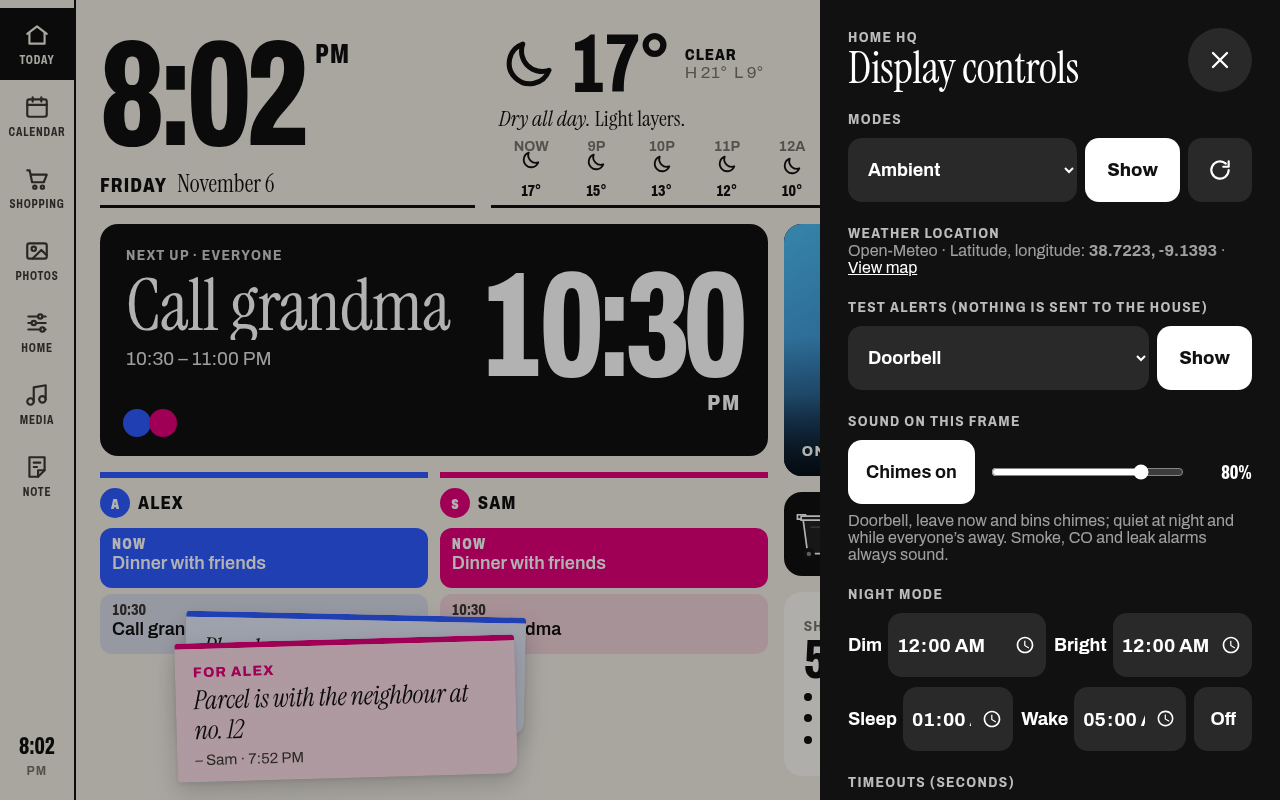
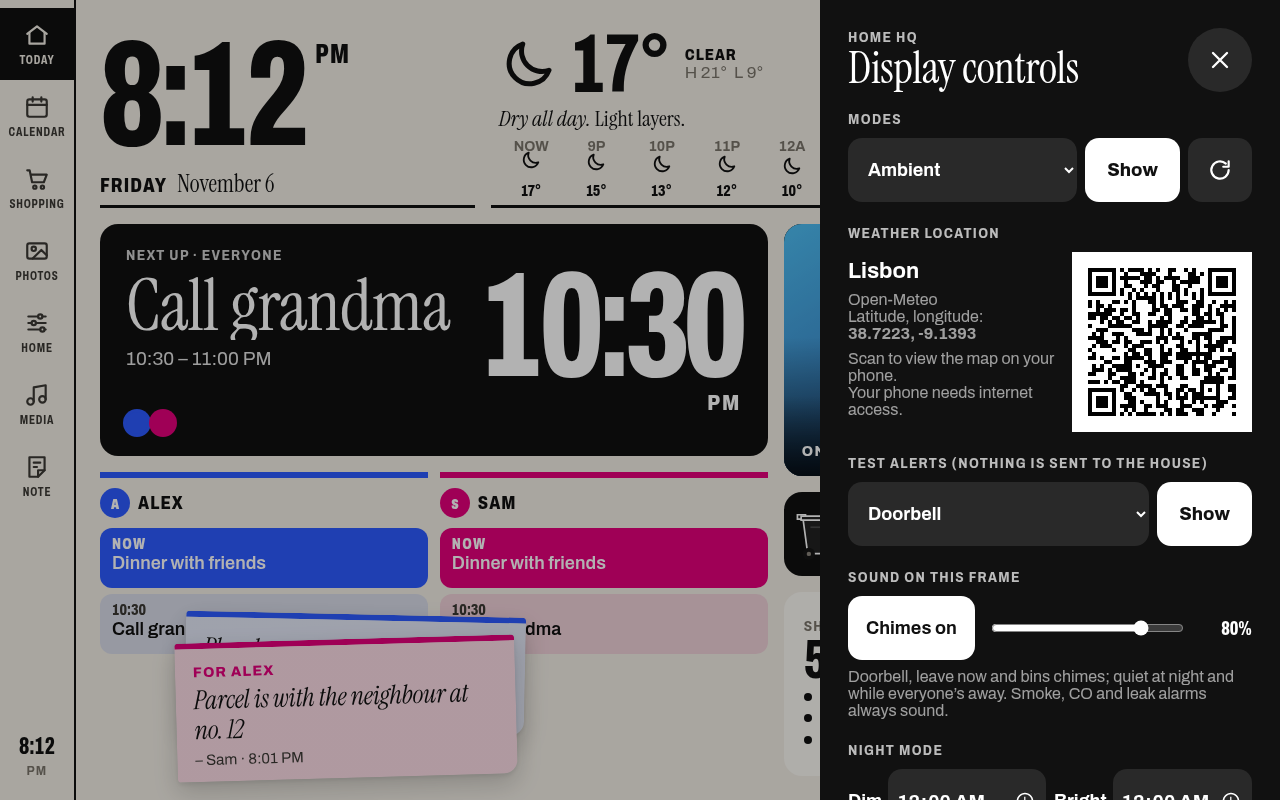
Show offline city label and map QR in display controls

diff --git a/frontend/js/system.js b/frontend/js/system.js
@@ -196,7 +196,7 @@
       '<select id="demoMode" aria-label="Mode to show"><option value="ambient">Ambient</option><option value="off">Screen off</option></select>' +
       '<button data-modego>Show</button>' +
       '<button class="demo-icon" data-reload aria-label="Refresh data">' + App.icon('refresh', 26) + '</button></div></div>' +
-      '<div class="demo-sec"><div class="label label--light">Weather location</div><p class="demo-note">' + weatherLocation() + '</p></div>' +
+      '<div class="demo-sec"><div class="label label--light">Weather location</div><div class="demo-note">' + weatherLocation() + '</div></div>' +
       (tests().length ? '<div class="demo-sec"><div class="label label--light">Test alerts (nothing is sent to the house)</div><div class="demo-test">' +
       '<select id="demoAlert" aria-label="Alert to test">' + tests().map(function (t) { return '<option value="' + t[0] + '">' + t[1] + '</option>'; }).join('') + '</select>' +
       '<button data-test>Show</button></div></div>' : '') +
@@ -231,8 +231,12 @@
     var loc = D.weatherLocation;
     if (!loc || typeof loc.lat !== 'number' || typeof loc.lon !== 'number' || !isFinite(loc.lat) || !isFinite(loc.lon)) return 'No weather location configured.';
     var coords = loc.lat.toFixed(4) + ', ' + loc.lon.toFixed(4);
-    return 'Open-Meteo · Latitude, longitude: <b>' + App.esc(coords) + '</b> · ' +
-      '<a href="https://www.openstreetmap.org/?mlat=' + encodeURIComponent(loc.lat) + '&amp;mlon=' + encodeURIComponent(loc.lon) + '#map=12/' + encodeURIComponent(loc.lat) + '/' + encodeURIComponent(loc.lon) + '" target="_blank" rel="noopener noreferrer">View map</a>';
+    var url = 'https://www.openstreetmap.org/?mlat=' + encodeURIComponent(loc.lat) + '&mlon=' + encodeURIComponent(loc.lon) + '#map=12/' + encodeURIComponent(loc.lat) + '/' + encodeURIComponent(loc.lon);
+    var name = typeof loc.name === 'string' ? loc.name.trim() : '';
+    return '<div class="demo-weather"><div>' + (name ? '<b class="demo-weather-city">' + App.esc(name) + '</b>' : '') +
+      '<p>Open-Meteo<br>Latitude, longitude:<br><b>' + App.esc(coords) + '</b></p>' +
+      '<p>Scan to view the map on your phone.<br>Your phone needs internet access.</p></div>' +
+      '<div class="demo-weather-qr" role="img" aria-label="QR code to open the weather location in OpenStreetMap">' + App.share.qrSvg(url, 180) + '</div></div>';
   }
   // [id, label]: Home Assistant alerts only when it's set up; weather and bins work without it.
   function tests() {

diff --git a/frontend/css/base.css b/frontend/css/base.css
@@ -282,7 +282,12 @@ button.card:active, .h-hero:active, .h-photo:active { transform: scale(.985); }
 .demo-x { width: var(--tap); height: var(--tap); border-radius: 50%; display: grid; place-items: center; background: rgba(255, 255, 255, .1); }
 .demo-sec { margin-bottom: 22px; }
 .demo-note { font-size: 16px; color: rgba(255, 255, 255, .6); }
-.demo-note a { color: #fff; }
+.demo-weather { display: flex; align-items: center; gap: 16px; margin-top: 10px; }
+.demo-weather > div:first-child { flex: 1; min-width: 0; overflow-wrap: anywhere; }
+.demo-weather p { margin: 8px 0; }
+.demo-weather-city { color: #fff; font-size: 22px; }
+.demo-weather-qr { flex: none; line-height: 0; }
+.demo-weather-qr svg { max-width: 100%; height: auto; }
 .demo-test { display: flex; gap: 8px; margin-top: 10px; }
 .demo-frames { margin-top: 8px; display: flex; flex-direction: column; gap: 6px; }
 .demo-sound { display: flex; align-items: center; gap: 14px; margin: 10px 0 8px; }

diff --git a/tests/api.rs b/tests/api.rs
@@ -60,11 +60,19 @@ async fn json_of(app: &Router, req: Request<Body>) -> Value {
 
 #[tokio::test]
 async fn state_exposes_configured_weather_location_without_fetching_weather() {
-    for location in [json!({"lat": 0.0, "lon": -9.1393}), Value::Null] {
+    for location in [
+        json!({"lat": 0.0, "lon": -9.1393}),
+        json!({"name": "Lisbon", "lat": 38.7223, "lon": -9.1393}),
+        Value::Null,
+    ] {
         let settings = Settings::parse(&json!({"location": location}).to_string()).unwrap();
         let app = router(AppState::new(settings, None, Arc::new(Utc::now)));
         let state = json_of(&app, get("/api/state")).await;
-        assert_eq!(state["weatherLocation"], location);
+        let mut expected = location;
+        if let Some(object) = expected.as_object_mut() {
+            object.entry("name").or_insert(Value::Null);
+        }
+        assert_eq!(state["weatherLocation"], expected);
     }
 }
 

diff --git a/src/demo.rs b/src/demo.rs
@@ -294,6 +294,7 @@ impl Demo {
             "notes": self.live_notes(now),
             "awayOffMinutes": self.settings.display.away_off_minutes,
             "weatherLocation": self.settings.location.as_ref().map(|loc| json!({
+                "name": loc.name,
                 "lat": loc.lat,
                 "lon": loc.lon,
             })),

diff --git a/src/settings.rs b/src/settings.rs
@@ -32,6 +32,8 @@ fn default_tz() -> String {
 
 #[derive(Debug, Clone, Deserialize)]
 pub struct Location {
+    #[serde(default)]
+    pub name: Option<String>,
     pub lat: f64,
     pub lon: f64,
     #[serde(default)]

diff --git a/PATCHES.md b/PATCHES.md
@@ -8,6 +8,7 @@ Keep this list short. Every patch here has to be carried across `git subtree pul
 | Quiet photo frame | `frontend/js/app.js`, `frontend/js/views/photos.js`, `frontend/js/views/ambient.js`, `frontend/css/views/ambient.css`, `frontend/js/views/notes.js`, `frontend/css/views/notes.css` | After eight idle seconds in Photos, show an edge-to-edge image without overlays; first tap restores photo controls. Daytime ambient mode is also image-only; night/off schedules remain active. |
 | Immich device pairing | `frontend/immich.html`, `frontend/js/immich-auth.js`, `frontend/js/sync.js`, `frontend/js/views/photos.js`, `frontend/css/views/photos.css`, `frontend/vite.config.js` | QR approval page and connection link; issued credentials remain on the backend. |
 | Offline fonts | `frontend/css/fonts.css`, `frontend/public/fonts/`, `frontend/index.html`, `frontend/m.html` | Serve Archivo and Instrument Serif locally so the LAN-only frame uses the intended type metrics; font licences are bundled |
+| Weather location in Display Controls | `frontend/js/system.js`, `frontend/js/sync.js`, `frontend/css/base.css` | Show the configured city label and coordinates, with a locally generated QR code to view the map on a phone. Reuses the bundled QR renderer in `frontend/js/share.js`. |
 | Frame grid sizing | `frontend/css/base.css`, `frontend/css/views/home.css` | Prevent intrinsic card widths from expanding the home grid beyond the 1280×800 frame |
 | Offline layout regression check | `frontend/tools/check-layout.mjs`, `frontend/package.json`, `frontend/package-lock.json` | Capture frame-sized screenshots and check font loading, clock spacing and card bounds without deployment |
 | Preserve photo colours at night | `frontend/css/base.css`, `frontend/js/app.js`, `frontend/tools/check-photo-colours.mjs`, `frontend/package.json` | Apply the night filter to UI regions rather than the shared view container, preserving slideshow and home-tile image colours. |

diff --git a/README.md b/README.md
@@ -71,6 +71,11 @@ empty `frontend/dist`.
 
 `GET /healthz` returns `ok` without a key.
 
+Display Controls shows the configured weather coordinates and optional city label from
+`settings.location.name` (for example, `"Lisbon"`). The label is configured alongside `lat` and
+`lon`, not looked up online. A locally generated QR code opens the location in OpenStreetMap
+on a phone with internet access; displaying the label and QR needs no internet on the kiosk.
+
 ### Photo frame behaviour
 
 After eight seconds without interaction in Photos, the daytime frame shows only an
